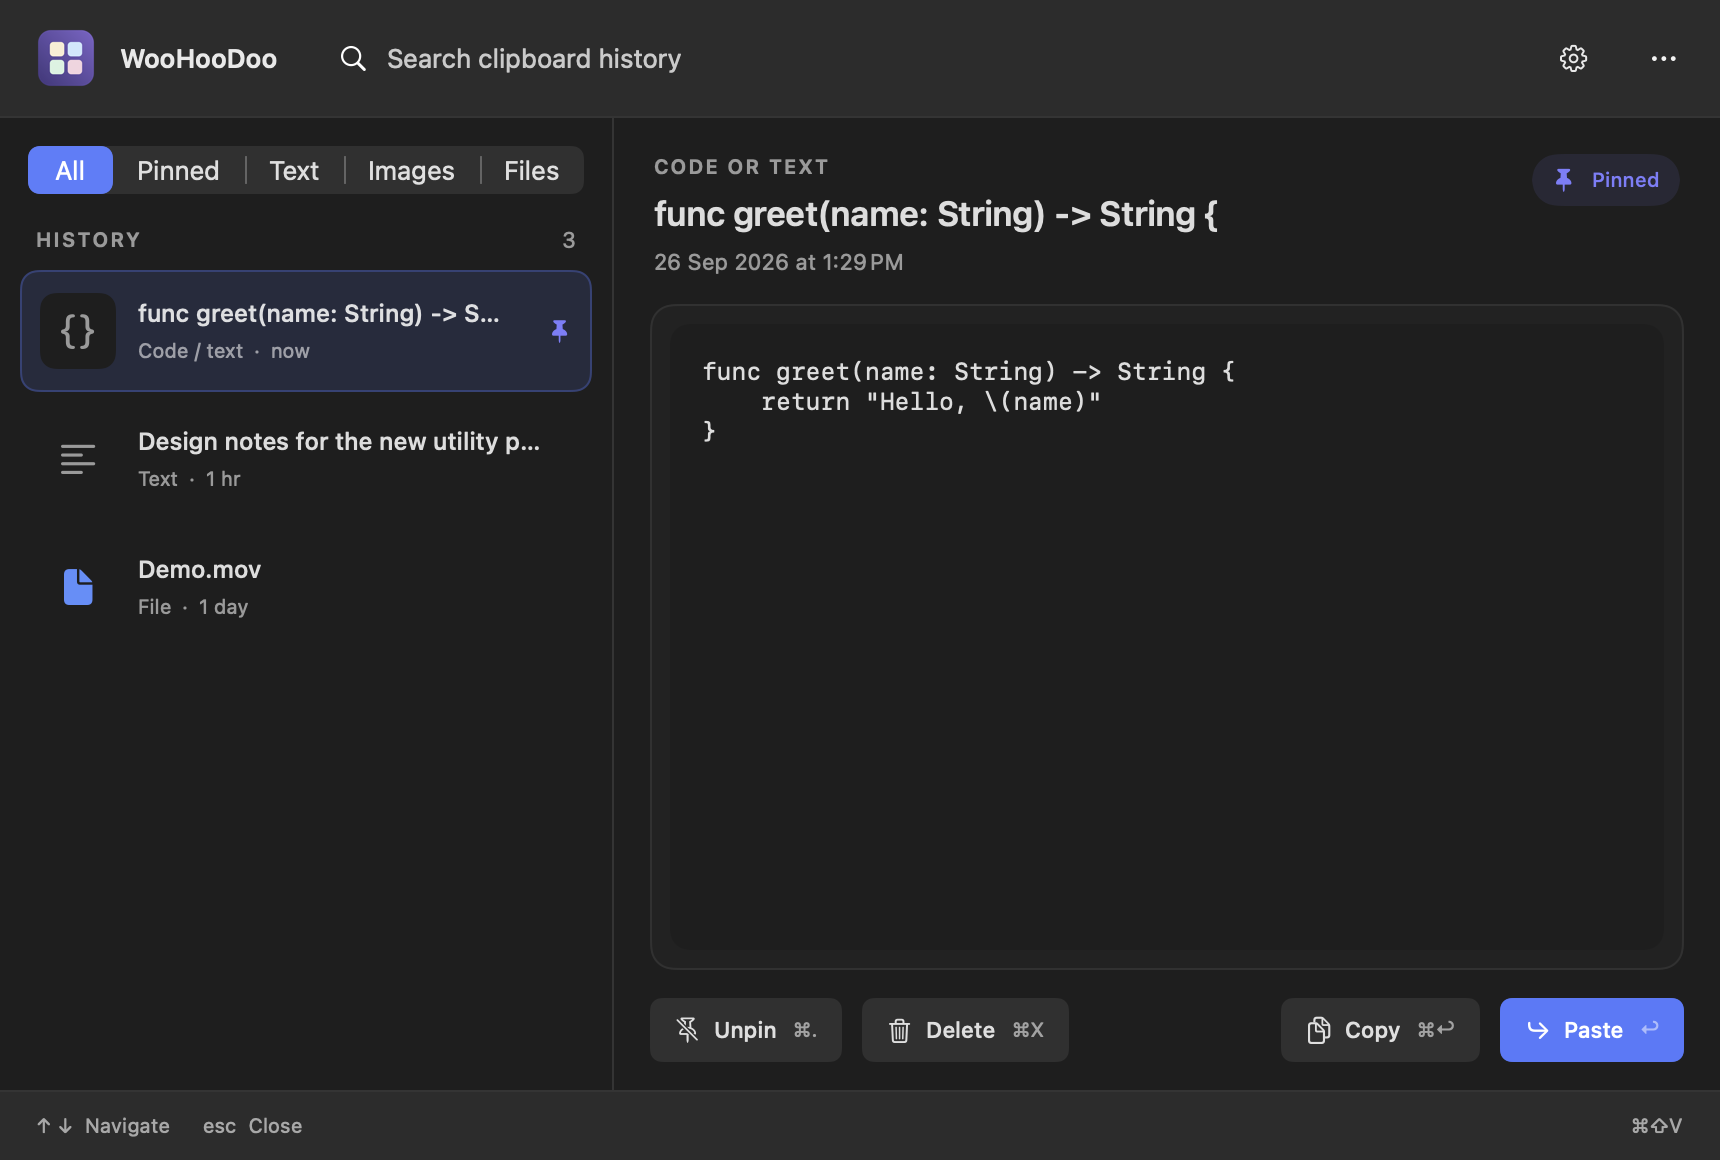
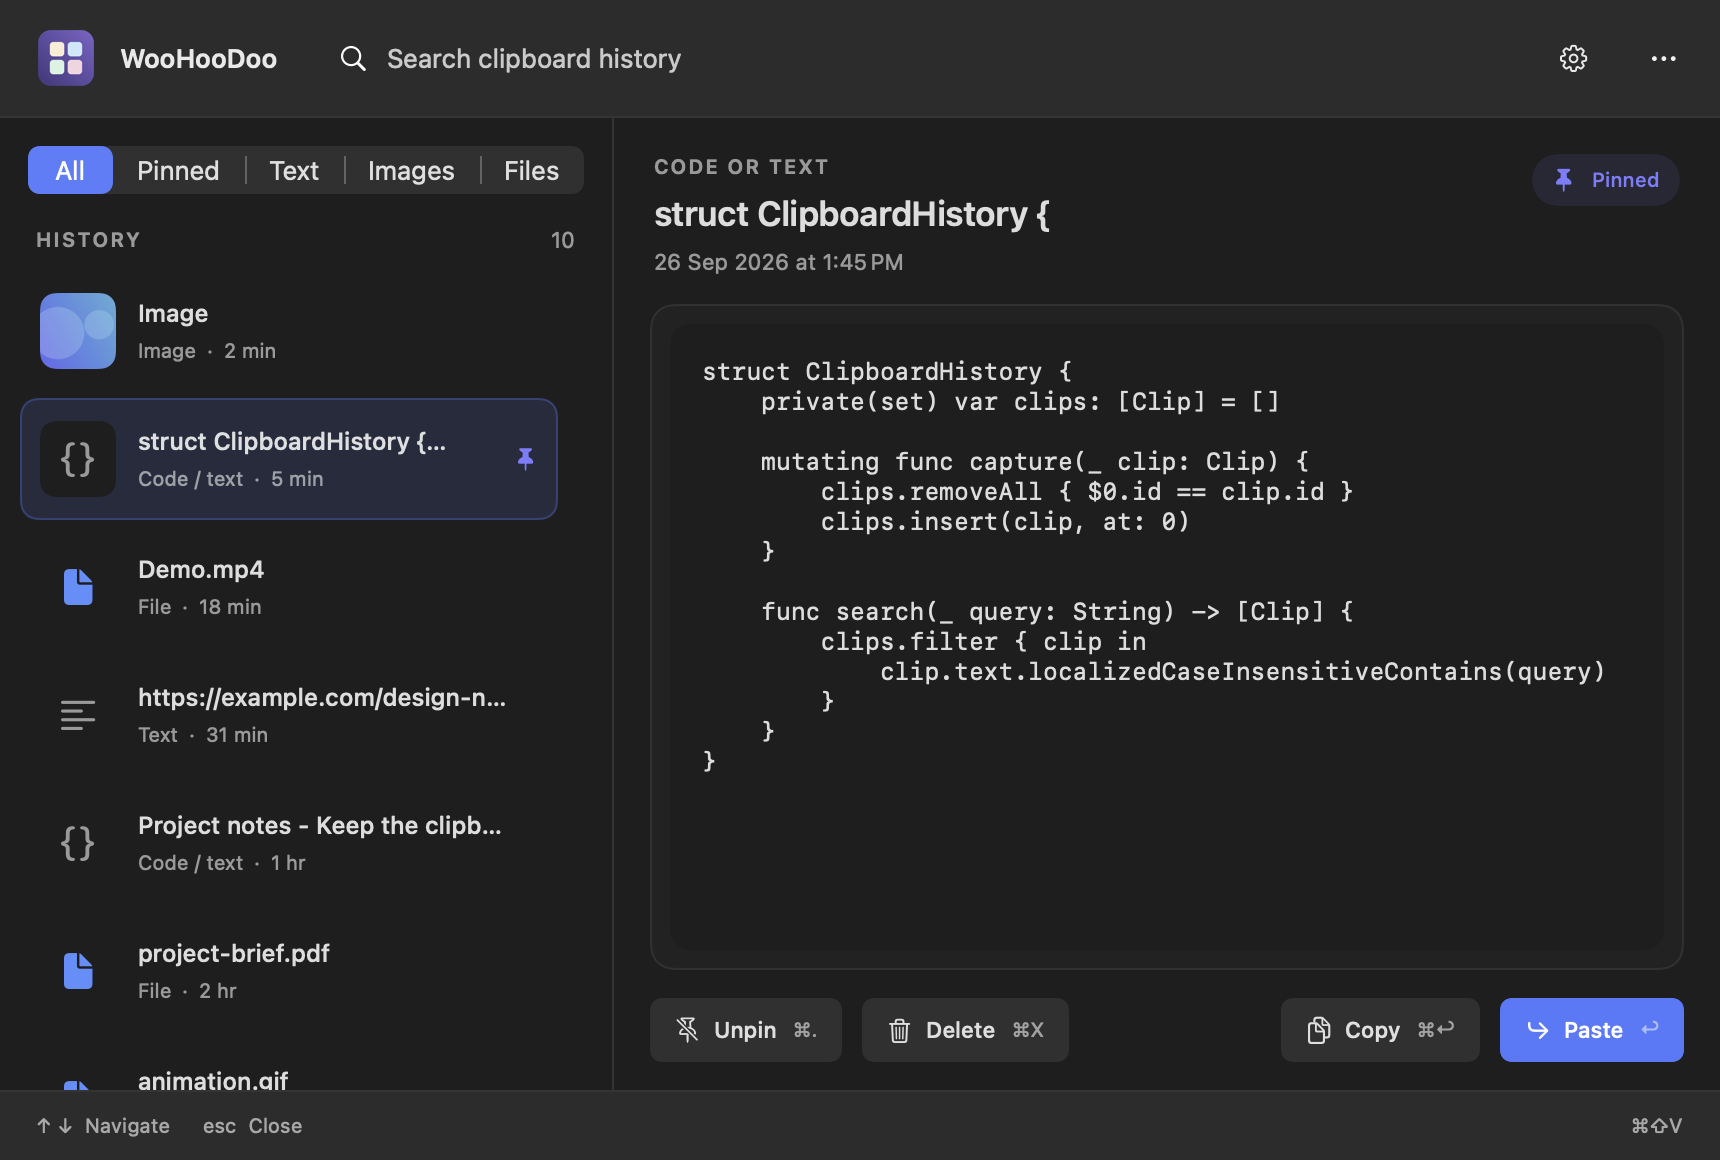
fix: keep media previews within panel size

diff --git a/scripts/render-layout.swift b/scripts/render-layout.swift
@@ -11,32 +11,61 @@ struct LayoutCheck {
         defer { try? FileManager.default.removeItem(at: directory) }
 
         let previewFile = ProcessInfo.processInfo.environment["WOOHOODOO_LAYOUT_FILE"]
+        let imageName = try makeSampleImage(in: directory)
+        let code = """
+        struct ClipboardHistory {
+            private(set) var clips: [Clip] = []
+
+            mutating func capture(_ clip: Clip) {
+                clips.removeAll { $0.id == clip.id }
+                clips.insert(clip, at: 0)
+            }
+
+            func search(_ query: String) -> [Clip] {
+                clips.filter { clip in
+                    clip.text.localizedCaseInsensitiveContains(query)
+                }
+            }
+        }
+        """
+        func textClip(_ text: String, minutesAgo: TimeInterval, pinned: Bool = false) -> Clip {
+            Clip(id: UUID(), kind: .text, text: text, imageName: nil, filePaths: nil,
+                 fingerprint: UUID().uuidString, createdAt: .now.addingTimeInterval(-minutesAgo * 60),
+                 isPinned: pinned)
+        }
+        func fileClip(_ name: String, minutesAgo: TimeInterval, path: String? = nil) -> Clip {
+            Clip(id: UUID(), kind: .files, text: name, imageName: nil,
+                 filePaths: [path ?? "/tmp/\(name)"], fingerprint: UUID().uuidString,
+                 createdAt: .now.addingTimeInterval(-minutesAgo * 60), isPinned: false)
+        }
         let clips = [
-            Clip(id: UUID(), kind: .text,
-                 text: "func greet(name: String) -> String {\n    return \"Hello, \\(name)\"\n}",
-                 imageName: nil, filePaths: nil, fingerprint: "code",
-                 createdAt: .now, isPinned: true),
-            Clip(id: UUID(), kind: .text,
-                 text: "Design notes for the new utility panel",
-                 imageName: nil, filePaths: nil, fingerprint: "notes",
-                 createdAt: Date().addingTimeInterval(-3600), isPinned: false),
-            Clip(id: UUID(), kind: .files,
-                 text: previewFile.map { URL(fileURLWithPath: $0).lastPathComponent } ?? "Demo.mov",
-                 imageName: nil, filePaths: [previewFile ?? "/tmp/Demo.mov"],
-                 fingerprint: "video", createdAt: Date().addingTimeInterval(-86400),
-                 isPinned: false),
+            Clip(id: UUID(), kind: .image, text: "Image", imageName: imageName,
+                 filePaths: nil, fingerprint: "sample-image",
+                 createdAt: .now.addingTimeInterval(-120), isPinned: false),
+            textClip(code, minutesAgo: 5, pinned: true),
+            fileClip(previewFile.map { URL(fileURLWithPath: $0).lastPathComponent } ?? "Demo.mp4",
+                     minutesAgo: 18, path: previewFile),
+            textClip("https://example.com/design-notes", minutesAgo: 31),
+            textClip("Project notes\n- Keep the clipboard easy to scan\n- Preview before pasting",
+                     minutesAgo: 65),
+            fileClip("project-brief.pdf", minutesAgo: 120),
+            fileClip("animation.gif", minutesAgo: 360),
+            textClip("swift build -c release", minutesAgo: 900),
+            fileClip("layout-reference.png", minutesAgo: 1440),
+            textClip("A short sample sentence to copy later.", minutesAgo: 2880),
         ]
         let state = SavedState(clips: clips, isPaused: false, retentionDays: 30, maxItems: 200)
         try JSONEncoder().encode(state).write(to: directory.appendingPathComponent("history.json"))
         let pasteboard = NSPasteboard(name: NSPasteboard.Name("WooHooDooLayout-\(UUID())"))
         let store = ClipboardStore(pasteboard: pasteboard, directory: directory, startsPolling: false)
         let controller = AppController(store: store)
-        if previewFile != nil { controller.selectedIndex = 2 }
+        controller.selectedIndex = previewFile == nil ? 0 : 2
         let app = NSApplication.shared
         app.applicationIconImage = NSImage(contentsOfFile: "dist/WooHooDoo.app/Contents/Resources/AppIcon.icns")
         app.setActivationPolicy(.regular)
         let window = NSPanel(contentRect: NSRect(origin: .zero, size: AppController.panelSize),
                              styleMask: [.titled, .fullSizeContentView], backing: .buffered, defer: false)
+        window.appearance = NSAppearance(named: .aqua)
         window.titleVisibility = .hidden
         window.titlebarAppearsTransparent = true
         window.standardWindowButton(.closeButton)?.isHidden = true
@@ -57,6 +86,7 @@ struct LayoutCheck {
             DispatchQueue.main.asyncAfter(deadline: .now() + 0.5) {
                 save(window: window, path: prefix + "-settings.png")
                 controller.showSettings = false
+                if previewFile == nil { controller.selectedIndex = 1 }
                 window.appearance = NSAppearance(named: .darkAqua)
                 DispatchQueue.main.asyncAfter(deadline: .now() + 0.5) {
                     save(window: window, path: prefix + "-dark.png")
@@ -70,12 +100,37 @@ struct LayoutCheck {
     private static func save(window: NSWindow, path: String) {
         precondition(abs(window.frame.width - AppController.panelSize.width) < 1 &&
                      abs(window.frame.height - AppController.panelSize.height) < 1,
-                     "Panel changed size while rendering")
+                     "Panel changed size while rendering \(path): \(window.frame)")
         guard let view = window.contentView,
               let bitmap = view.bitmapImageRepForCachingDisplay(in: view.bounds) else { return }
         view.cacheDisplay(in: view.bounds, to: bitmap)
         guard let data = bitmap.representation(using: .png, properties: [:]) else { return }
         try? data.write(to: URL(fileURLWithPath: path))
+    }
+
+    private static func makeSampleImage(in directory: URL) throws -> String {
+        let name = "sample-image.png"
+        let colorSpace = CGColorSpaceCreateDeviceRGB()
+        guard let context = CGContext(data: nil, width: 640, height: 360, bitsPerComponent: 8,
+                                      bytesPerRow: 0, space: colorSpace,
+                                      bitmapInfo: CGImageAlphaInfo.premultipliedLast.rawValue),
+              let gradient = CGGradient(colorsSpace: colorSpace,
+                                        colors: [NSColor.systemIndigo.cgColor,
+                                                 NSColor.systemTeal.cgColor] as CFArray,
+                                        locations: [0, 1]) else {
+            throw CocoaError(.fileWriteUnknown)
+        }
+        context.drawLinearGradient(gradient, start: CGPoint(x: 0, y: 0),
+                                   end: CGPoint(x: 640, y: 360), options: [])
+        context.setFillColor(NSColor.white.withAlphaComponent(0.2).cgColor)
+        context.fillEllipse(in: CGRect(x: 100, y: 45, width: 250, height: 250))
+        context.fillEllipse(in: CGRect(x: 350, y: 140, width: 140, height: 140))
+        guard let image = context.makeImage(),
+              let data = NSBitmapImageRep(cgImage: image).representation(using: .png, properties: [:]) else {
+            throw CocoaError(.fileWriteUnknown)
+        }
+        try data.write(to: directory.appendingPathComponent(name))
+        return name
     }
 
     private struct SavedState: Codable {

diff --git a/Sources/WooHooDoo/Clipboard/PreviewPane.swift b/Sources/WooHooDoo/Clipboard/PreviewPane.swift
@@ -285,15 +285,21 @@ private struct FilePreviewContent: View {
 private struct ImagePreviewView: NSViewRepresentable {
     let image: NSImage
 
-    func makeNSView(context: Context) -> NSImageView {
-        let view = NSImageView()
+    func makeNSView(context: Context) -> FlexibleImageView {
+        let view = FlexibleImageView()
         view.imageScaling = .scaleProportionallyUpOrDown
         view.animates = true
         return view
     }
 
-    func updateNSView(_ view: NSImageView, context: Context) {
+    func updateNSView(_ view: FlexibleImageView, context: Context) {
         view.image = image
+    }
+}
+
+private final class FlexibleImageView: NSImageView {
+    override var intrinsicContentSize: NSSize {
+        NSSize(width: NSView.noIntrinsicMetric, height: NSView.noIntrinsicMetric)
     }
 }
 
@@ -302,21 +308,21 @@ private struct VideoPreviewView: NSViewRepresentable {
 
     func makeCoordinator() -> Coordinator { Coordinator(url: url) }
 
-    func makeNSView(context: Context) -> AVPlayerView {
-        let view = AVPlayerView()
+    func makeNSView(context: Context) -> FlexiblePlayerView {
+        let view = FlexiblePlayerView()
         view.controlsStyle = .inline
         view.player = AVPlayer(url: url)
         return view
     }
 
-    func updateNSView(_ view: AVPlayerView, context: Context) {
+    func updateNSView(_ view: FlexiblePlayerView, context: Context) {
         guard context.coordinator.url != url else { return }
         view.player?.pause()
         view.player = AVPlayer(url: url)
         context.coordinator.url = url
     }
 
-    static func dismantleNSView(_ view: AVPlayerView, coordinator: Coordinator) {
+    static func dismantleNSView(_ view: FlexiblePlayerView, coordinator: Coordinator) {
         view.player?.pause()
         view.player = nil
     }
@@ -325,6 +331,12 @@ private struct VideoPreviewView: NSViewRepresentable {
         var url: URL
 
         init(url: URL) { self.url = url }
+    }
+}
+
+private final class FlexiblePlayerView: AVPlayerView {
+    override var intrinsicContentSize: NSSize {
+        NSSize(width: NSView.noIntrinsicMetric, height: NSView.noIntrinsicMetric)
     }
 }
 

diff --git a/Sources/WooHooDoo/AppController.swift b/Sources/WooHooDoo/AppController.swift
@@ -132,6 +132,7 @@ final class AppController: NSObject, ObservableObject, NSApplicationDelegate, NS
 
     func show() {
         guard let panel else { return }
+        keepPanelSize(panel)
         previousApp = NSWorkspace.shared.frontmostApplication
         query = ""
         selectedIndex = 0
@@ -152,6 +153,19 @@ final class AppController: NSObject, ObservableObject, NSApplicationDelegate, NS
 
     func windowDidResignKey(_ notification: Notification) {
         hide()
+    }
+
+    func windowDidResize(_ notification: Notification) {
+        guard let window = notification.object as? NSWindow, window === panel else { return }
+        keepPanelSize(window)
+    }
+
+    private func keepPanelSize(_ window: NSWindow) {
+        let size = Self.panelSize
+        let frame = window.frame
+        guard abs(frame.width - size.width) > 1 || abs(frame.height - size.height) > 1 else { return }
+        window.setFrame(NSRect(x: frame.minX, y: frame.maxY - size.height,
+                               width: size.width, height: size.height), display: true)
     }
 
     func moveSelection(by offset: Int) {

diff --git a/docs/ARCHITECTURE.md b/docs/ARCHITECTURE.md
@@ -4,7 +4,7 @@
 
 `AppController.swift` owns the menu-bar item, floating panel, global `Command-Shift-V` hotkey, keyboard navigation, paste action, and macOS login item setting. The app has no Dock icon. The clipboard feature lives under `Sources/WooHooDoo/Clipboard/`, so later utilities can add their own views and storage without changing the app identity.
 
-`HistoryView.swift` provides the search-first, two-column filter, selection, and preview layout. Row timestamps update by minute. The `NSPanel` uses `AppController.panelSize`; the SwiftUI root fills the panel frame and extends through its titlebar safe area, so history and settings keep the same window size. `GlassStyles.swift` applies Liquid Glass to header controls on macOS 26 and later. `PreviewPane.swift` uses `AVPlayerView` for common video files, `NSImageView` for still and animated images, and `QLPreviewView` for other files that macOS Quick Look supports. Small UTF-8 code and text files render as selectable monospaced text. `SettingsView.swift` controls retention, capture, and launch at login.
+`HistoryView.swift` provides the search-first, two-column filter, selection, and preview layout. Row timestamps update by minute. The `NSPanel` uses `AppController.panelSize`; the SwiftUI root fills the panel frame and extends through its titlebar safe area, so history and settings keep the same window size. The controller restores the panel size if AppKit resizes it. `GlassStyles.swift` applies Liquid Glass to header controls on macOS 26 and later. `PreviewPane.swift` uses `AVPlayerView` for common video files, `NSImageView` for still and animated images, and `QLPreviewView` for other files that macOS Quick Look supports. Image and video views have no intrinsic size so large media cannot expand the panel. Small UTF-8 code and text files render as selectable monospaced text. `SettingsView.swift` controls retention, capture, and launch at login.
 
 ## Clipboard capture
 
